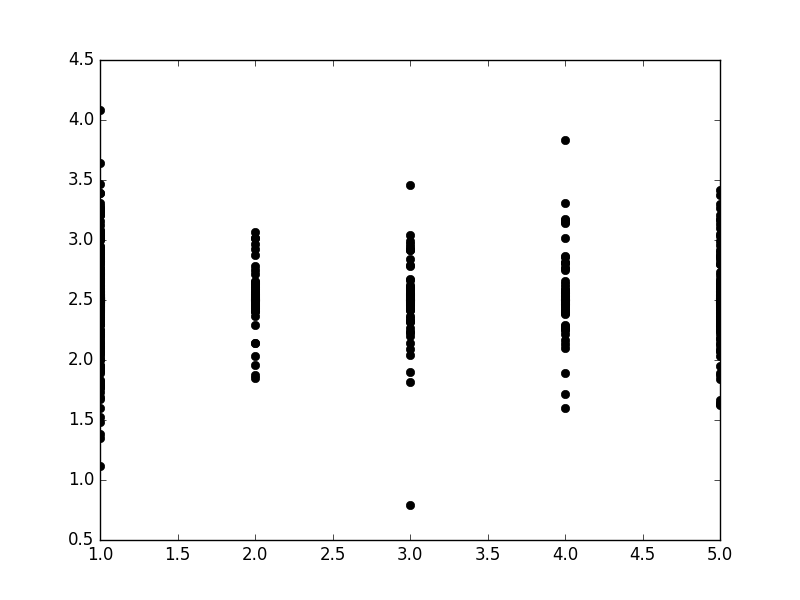
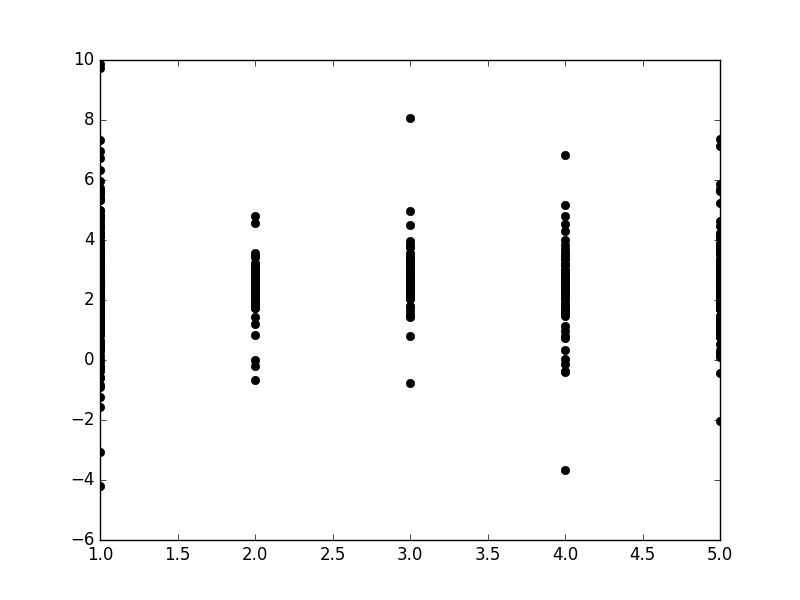
separated pca, better plots and saving mechanism

diff --git a/hred_encoder/eval_model_hred.py b/hred_encoder/eval_model_hred.py
@@ -132,6 +132,14 @@ def get_twitter_data(clean_data_file, context_file, gt_file):
     
     return context_list, gt_responses, model_responses, scores
 
+# Compute mean and range of dot products to find right constants in model
+def compute_init_values(emb):
+    prod_list = []
+    for i in xrange(len(emb[0][0])):
+        prod_list.append(np.dot(emb[i, 0], emb[i, 2]) + np.dot(emb[i, 1], emb[i, 2]))
+    return sum(prod_list) / float(len(prod_list)), max(prod_list) - min(prod_list)
+
+
 # Prints BLEU, METEOR, etc. correlation scores on the test set
 def show_overlap_scores(twitter_gtresponses, twitter_modelresponses, twitter_human_scores, test_pct):
     # Align ground truth with model responses
@@ -171,7 +179,29 @@ def show_overlap_scores(twitter_gtresponses, twitter_modelresponses, twitter_hum
         print 'For ' + name + ' score:'
         print spearman
         print pearson
- 
+
+# Computes PCA decomposition for the context, gt responses, and model responses separately
+def compute_separate_pca(pca_components, twitter_dialogue_embeddings):
+    pca = PCA(n_components = pca_components)
+    tw_embeddings_pca = np.zeros((twitter_dialogue_embeddings.shape[0], 3, pca_components))
+    for i in range(3):
+        tw_embeddings_pca[:,i] = pca.fit_transform(twitter_dialogue_embeddings[:, i])
+    return tw_embeddings_pca
+
+# Computes PCA decomposition for the context, gt responses, and model responses together
+def compute_pca(pca_components, twitter_dialogue_embeddings):
+    pca = PCA(n_components = pca_components)
+    num_ex = twitter_dialogue_embeddings.shape[0]
+    dim = twitter_dialogue_embeddings.shape[2]
+    tw_embeddings_pca = np.zeros((num_ex * 3, dim))
+    for i in range(3):
+        tw_embeddings_pca[num_ex*i: num_ex*(i+1),:] = twitter_dialogue_embeddings[:,i]
+    tw_embeddings_pca = pca.fit_transform(tw_embeddings_pca)
+    tw_emb = np.zeros((num_ex, 3, pca_components))
+    for i in range(3):
+        tw_emb[:,i] = tw_embeddings_pca[num_ex*i: num_ex*(i+1),:]
+    return tw_emb
+
 
 # Compute model embeddings for contexts or responses 
 def compute_model_embeddings(data, model):
@@ -216,8 +246,16 @@ def get_auxiliary_features(contexts, gtresponses, modelresponses, num_examples):
     return aux_features
 
 def make_plot(model_scores, human_scores, filename):
+    pp.clf()
     pp.plot(human_scores, model_scores, 'ko')
     pp.savefig(filename)
+
+def make_line_plot(model_scores, human_scores, filename):
+    pp.clf()
+    pp.plot(human_scores, model_scores)
+    pp.savefig(filename)
+
+
 
 
 #####################
@@ -246,7 +284,7 @@ class LinearEvalModel(object):
 
     input has shape (batch size x 3 x emb dimensionality)
     """
-    def __init__(self, input, emb_dim, batch_size, feat_dim=0, aux_features=None):
+    def __init__(self, input, emb_dim, batch_size, init_mean, init_range, feat_dim=0, aux_features=None):
         self.M = theano.shared(np.eye(emb_dim).astype(theano.config.floatX), borrow=True)
         self.N = theano.shared(np.eye(emb_dim).astype(theano.config.floatX), borrow=True)
         self.f = theano.shared(np.zeros((feat_dim,)).astype(theano.config.floatX), borrow=True)
@@ -268,17 +306,19 @@ class LinearEvalModel(object):
         # Julian: I think adding a squared error on top of a sigmoid function will be difficult to train.
         #         Let's just try with a linear output first. We can always clip it to be within [0, 5] later.
         #self.output = 5 * T.clip(T.nnet.sigmoid(self.pred), 1e-7, 1 - 1e-7)
-        self.output = 2.5 + 500*self.pred #/ 2000.0 # *5/10000 = /2000, to re-scale dot product values to [0,5] range
+        self.output = 2.5 - init_mean + 5 * self.pred / init_range # to re-scale dot product values to [0,5] range
 
 
     def squared_error(self, score):
         return T.mean((self.output - score)**2)
 
+    def l2_regularization(self):
+        return self.M.norm(2) + self.N.norm(2)
 
 
 
-def train(train_x, test_x, train_y, test_y, learning_rate=0.01, num_epochs=100,
-        batch_size=1, feat_dim=0, aux_features=None):
+def train(train_x, test_x, train_y, test_y, init_mean, init_range, learning_rate=0.01, num_epochs=100,
+        batch_size=16, l2reg=0, feat_dim=0, aux_features=None, exp_name=None):
     
     print '...building model'
     n_train_batches = train_x.shape[0] / batch_size
@@ -293,10 +333,11 @@ def train(train_x, test_x, train_y, test_y, learning_rate=0.01, num_epochs=100,
     y = T.fvector('y')
     feat = T.fvector('feat')
     
-    model = LinearEvalModel(input=x, emb_dim=emb_dim, batch_size=batch_size, feat_dim=feat_dim, aux_features=feat)
+    model = LinearEvalModel(input=x, emb_dim=emb_dim, batch_size=batch_size, init_mean=init_mean, init_range=init_range, \
+            feat_dim=feat_dim, aux_features=feat)
 
     # TODO: Try out L2 regularization
-    cost = model.squared_error(y)
+    cost = model.squared_error(y) + l2reg * model.l2_regularization()
         
     get_output = theano.function(
         inputs=[],
@@ -305,12 +346,12 @@ def train(train_x, test_x, train_y, test_y, learning_rate=0.01, num_epochs=100,
             x: test_x
         }
     )
-    
-    get_pred = theano.function(
+
+    get_output_train = theano.function(
         inputs=[],
-        outputs=model.pred,
+        outputs=model.output,
         givens={
-            x: test_x
+            x: train_x
         }
     )
     
@@ -336,34 +377,53 @@ def train(train_x, test_x, train_y, test_y, learning_rate=0.01, num_epochs=100,
     first_output = get_output()
     best_output = np.zeros((50,)) 
     best_cor = [0,0]
+    loss_list = []
+    spearman_train = []
+    pearson_train = []
+    spearman_test = []
+    pearson_test = []
     best_correlation = -np.inf
     start_time = time.time()
     while (epoch < num_epochs):
         epoch += 1    
-        print 'Starting epoch',epoch
+        if epoch % 100 == 0:
+            print 'Starting epoch',epoch
         cost_list = []
         for minibatch_index in xrange(n_train_batches):
             minibatch_cost = train_model(minibatch_index)
             cost_list.append(minibatch_cost)
         model_out = get_output()
-        print sum(cost_list) / float(len(cost_list))
-        print 'Loss is ' + str(float(sum(cost_list))/len(cost_list))
-        
+        loss = sum(cost_list) / float(len(cost_list))
+        loss_list.append(loss)
+        #print 'Loss is ' + str(loss)
+        #train_correlation = correlation(get_output_train(), train_y)
         test_correlation = correlation(model_out, test_y)
-        print test_correlation
+        #spearman_train.append(train_correlation[0][0])
+        spearman_test.append(test_correlation[0][0])
+        #pearson_train.append(train_correlation[1][0])
+        pearson_test.append(test_correlation[1][0])
+        #print test_correlation
         if test_correlation[0][0] > best_correlation:
             best_correlation = test_correlation[0][0]
             best_cor = test_correlation
             best_output = get_output()
             #with open('best_model.pkl', 'w') as f:
             #    cPickle.dump(model, f)
-
     end_time = time.time()
     print 'Finished training. Took %f s'%(end_time - start_time)
     print 'Final Spearman correlation: ', best_cor[0]
     print 'Final Peason correlation: ', best_cor[1]
-    make_plot(best_output, test_y, 'correlation_vhred_learned.png')
-    make_plot(first_output, test_y, 'correlation_vhred_first.png')
+    epoch_list = range(len(loss_list))
+    folder_name = exp_named + '_bs=' + str(batch_size) + '_lr=' + str(learning_rate) + '_l2=' + str(l2reg) + '_epochs=' + str(num_epochs) 
+    if not os.path.exists('./' + folder_name):
+        os.makedirs('./' + folder_name)
+    make_plot(best_output, test_y, './results/' + folder_name + '/learned.png')
+    make_plot(first_output, test_y, './results/' + folder_name + '/init.png')
+    make_line_plot(loss_list, epoch_list, './results/' + folder_name + '/loss.png')
+    #make_line_plot(spearman_train, epoch_list, './results/' + folder_name + '_spear_train.png')
+    make_line_plot(spearman_test, epoch_list, './results/' + folder_name + '/spear_test.png')
+    #make_line_plot(pearson_train, epoch_list, './results/' + folder_name + '_pear_train.png')
+    make_line_plot(pearson_test, epoch_list, './results/' + folder_name + '/pear_test.png')
     
 
 if __name__ == '__main__':
@@ -485,35 +545,40 @@ if __name__ == '__main__':
         twitter_dialogue_embeddings[i, 0, :] =  twitter_context_embeddings[i]
         twitter_dialogue_embeddings[i, 1, :] =  twitter_gtresponses_embeddings[i]
         twitter_dialogue_embeddings[i, 2, :] =  twitter_modelresponses_embeddings[i]
-
+    
+    
     # Reduce the dimensionality  of the embeddings with PCA
     # TODO: do PCA on all the embeddings, without separating context/ responses?
-    pca_components = 50
+    pca_list = [5, 10, 20, 50, 100, 200, 500, 1000, 2000]
+    l2reg_list = [0, 1e-6, 1e-4, 1e-2]
+    for l2reg in l2reg_list:
+        for pca_components in pca_list:
+            print '%%%%%%%%%%%%%  Running experiment with PCA=' + str(pca_components) + ', l2reg=' + str(l2reg) + ' %%%%%%%%%%%%%%'
+            print 'Computing PCA...'
+            if pca_components < emb_dim:
+                twitter_dialogue_embeddings2 = compute_pca(pca_components, twitter_dialogue_embeddings)
+           
+            init_mean, init_range = compute_init_values(twitter_dialogue_embeddings2)
+            
+            # Reduce the dimensionality  of the embeddings with PCA
+            # Reduce the dimensionality  of the embeddings with PCA
+            # Calculate word-overlap metric scores on test set
+            train_index_str = int((1 - test_pct) * twitter_dialogue_embeddings2.shape[0])
 
-    if pca_components < emb_dim:
-        pca = PCA(n_components = pca_components)
-        tw_embeddings_pca = np.zeros((len(twitter_context_embeddings), 3, pca_components))
-        for i in range(3):
-            tw_embeddings_pca[:,i] = pca.fit_transform(twitter_dialogue_embeddings[:, i])
-        twitter_dialogue_embeddings = tw_embeddings_pca
-    
-    # Calculate word-overlap metric scores on test set
-    train_index_str = int((1 - test_pct) * twitter_dialogue_embeddings.shape[0])
+            # Separate into training and test sets
+            train_index = int((1 - test_pct) * twitter_dialogue_embeddings2.shape[0])
+            train_x = twitter_dialogue_embeddings2[:train_index]
+            test_x = twitter_dialogue_embeddings2[train_index:]
+            train_y = np.array(twitter_human_scores[:train_index])
+            test_y = np.array(twitter_human_scores[train_index:])
+            
+            print 'Computing auxiliary features...'
+            aux_features = None
+            if use_aux_features:
+                aux_features = get_auxiliary_features(twitter_contexts, twitter_gtresponses, twitter_modelresponses, len(twitter_contexts))
 
-    # Separate into training and test sets
-    train_index = int((1 - test_pct) * twitter_dialogue_embeddings.shape[0])
-    train_x = twitter_dialogue_embeddings[:train_index]
-    test_x = twitter_dialogue_embeddings[train_index:]
-    train_y = np.array(twitter_human_scores[:train_index])
-    test_y = np.array(twitter_human_scores[train_index:])
-    
-    print 'Computing auxiliary features...'
-    aux_features = None
-    if use_aux_features:
-        aux_features = get_auxiliary_features(twitter_contexts, twitter_gtresponses, twitter_modelresponses, len(twitter_contexts))
-
-    print 'Training model...'
-    train(train_x, test_x, train_y, test_y, aux_features=aux_features)
+            print 'Training model...'
+            train(train_x, test_x, train_y, test_y, init_mean, init_range, l2reg=l2reg, aux_features=aux_features, exp_name='pca'+str(pca_components))
 
 
     # Start training with:
